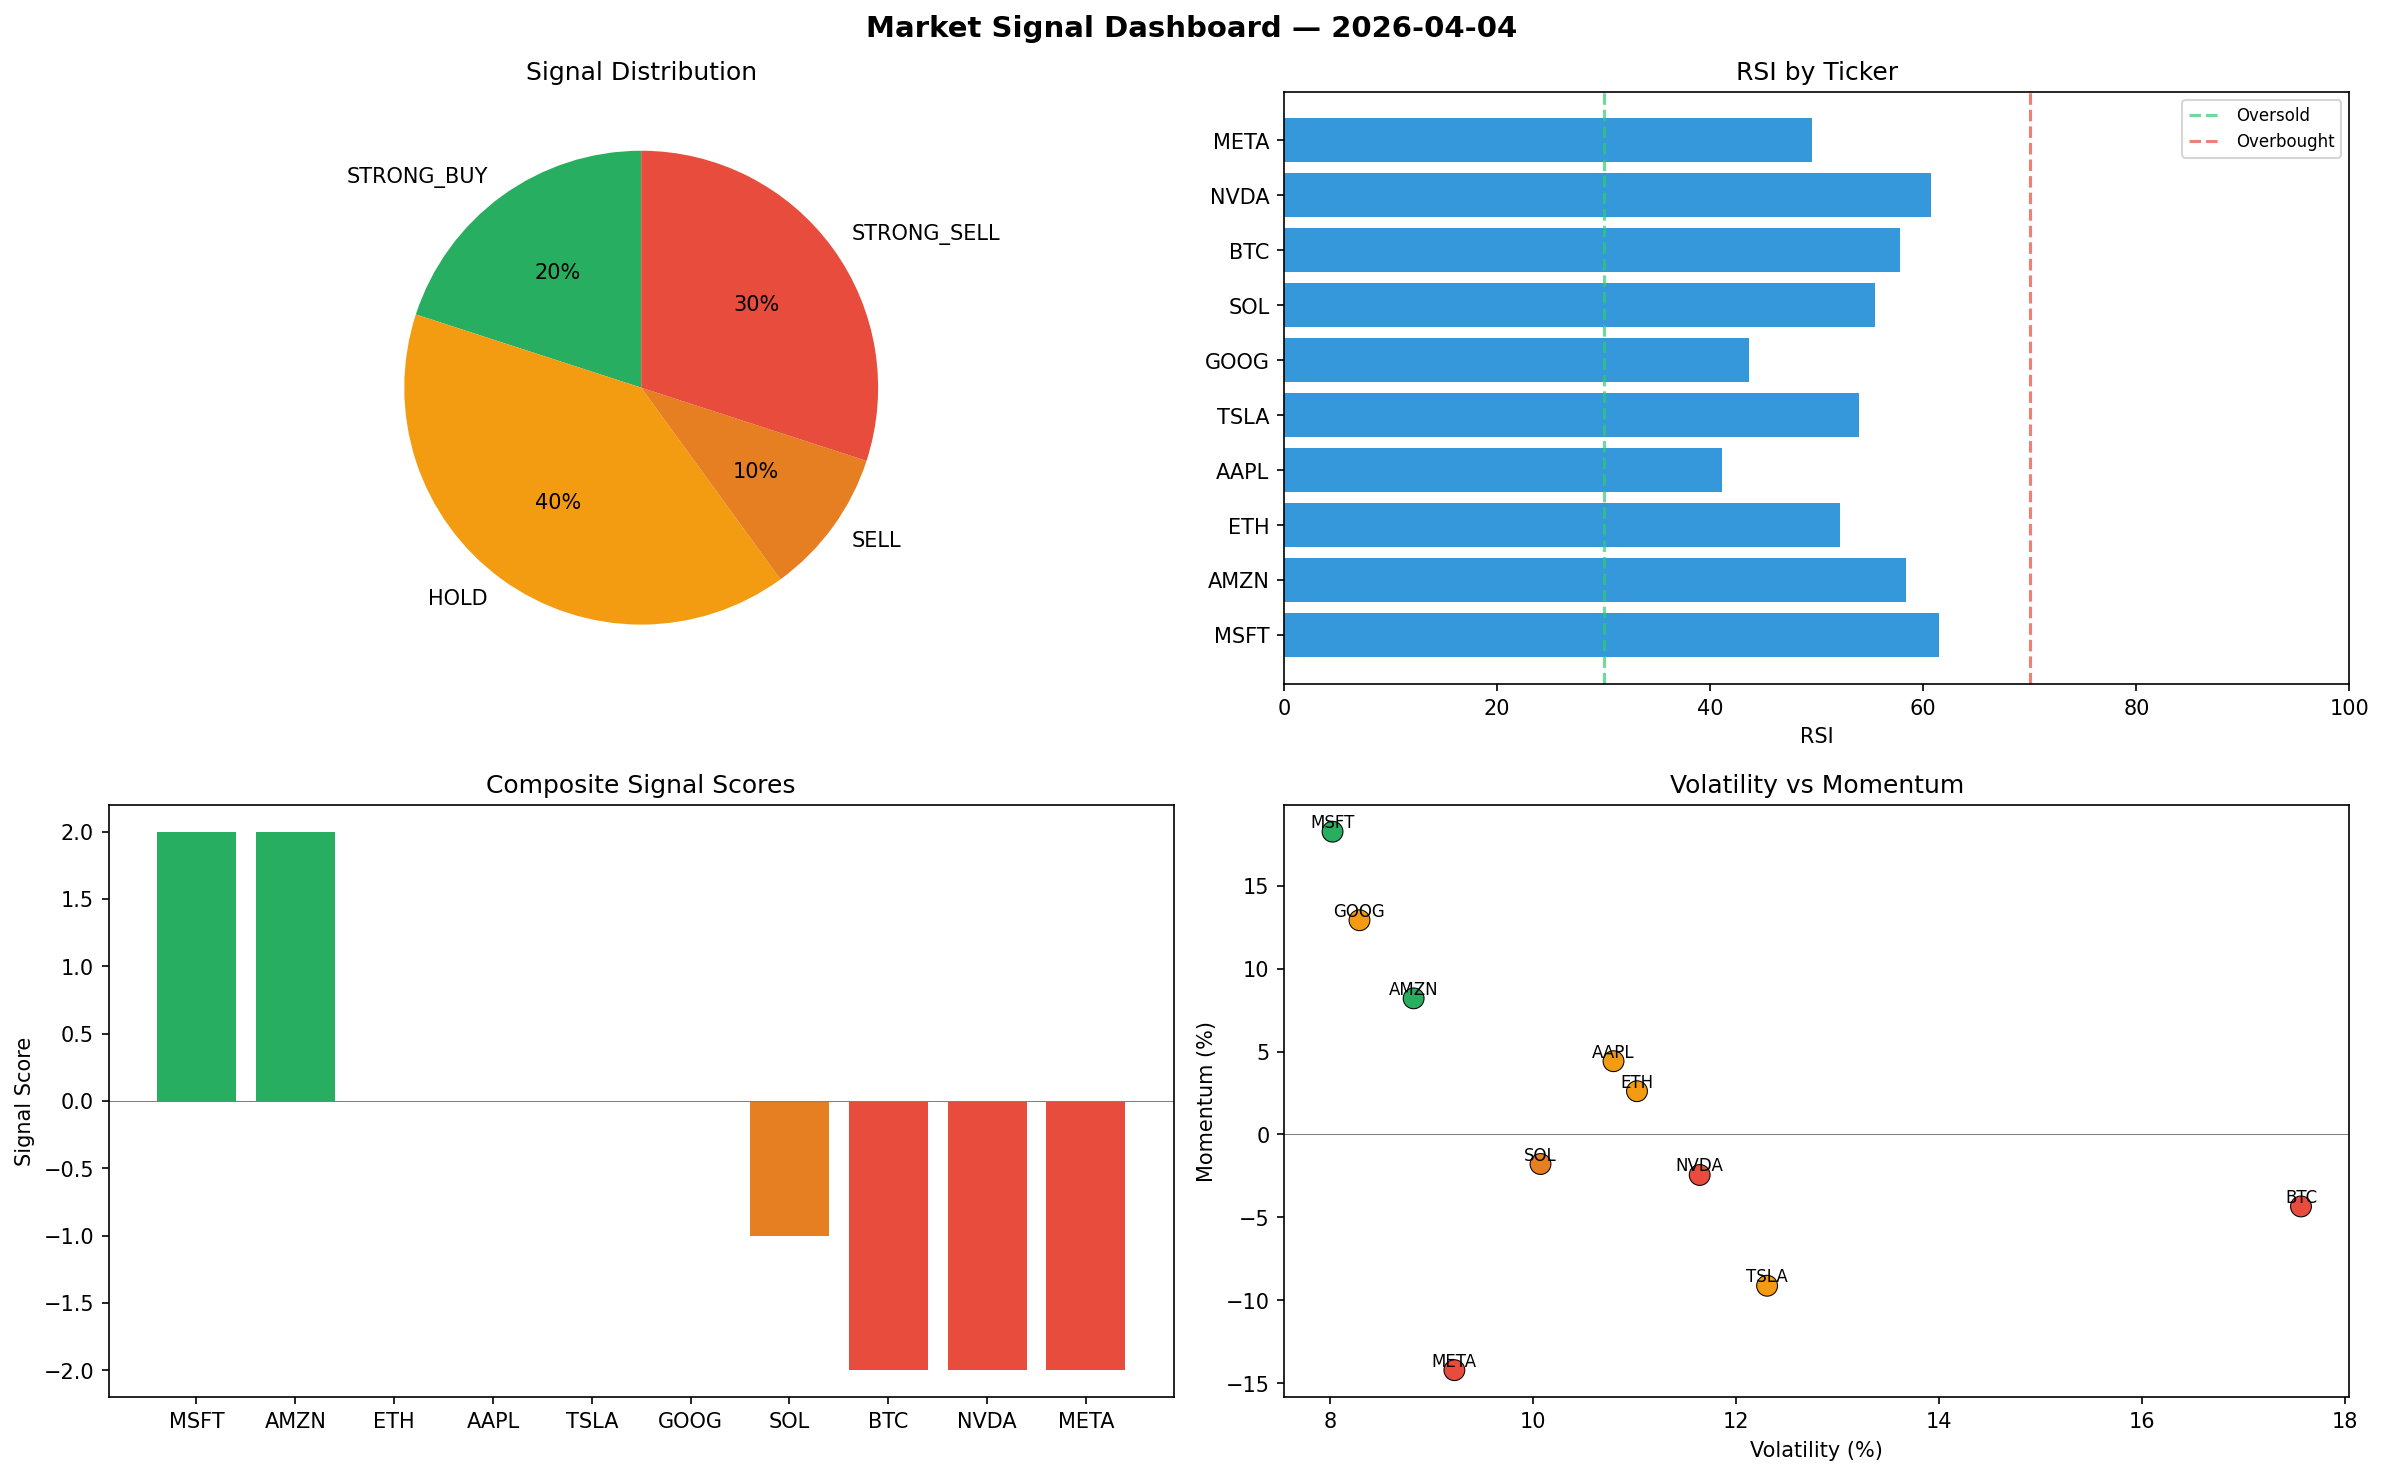
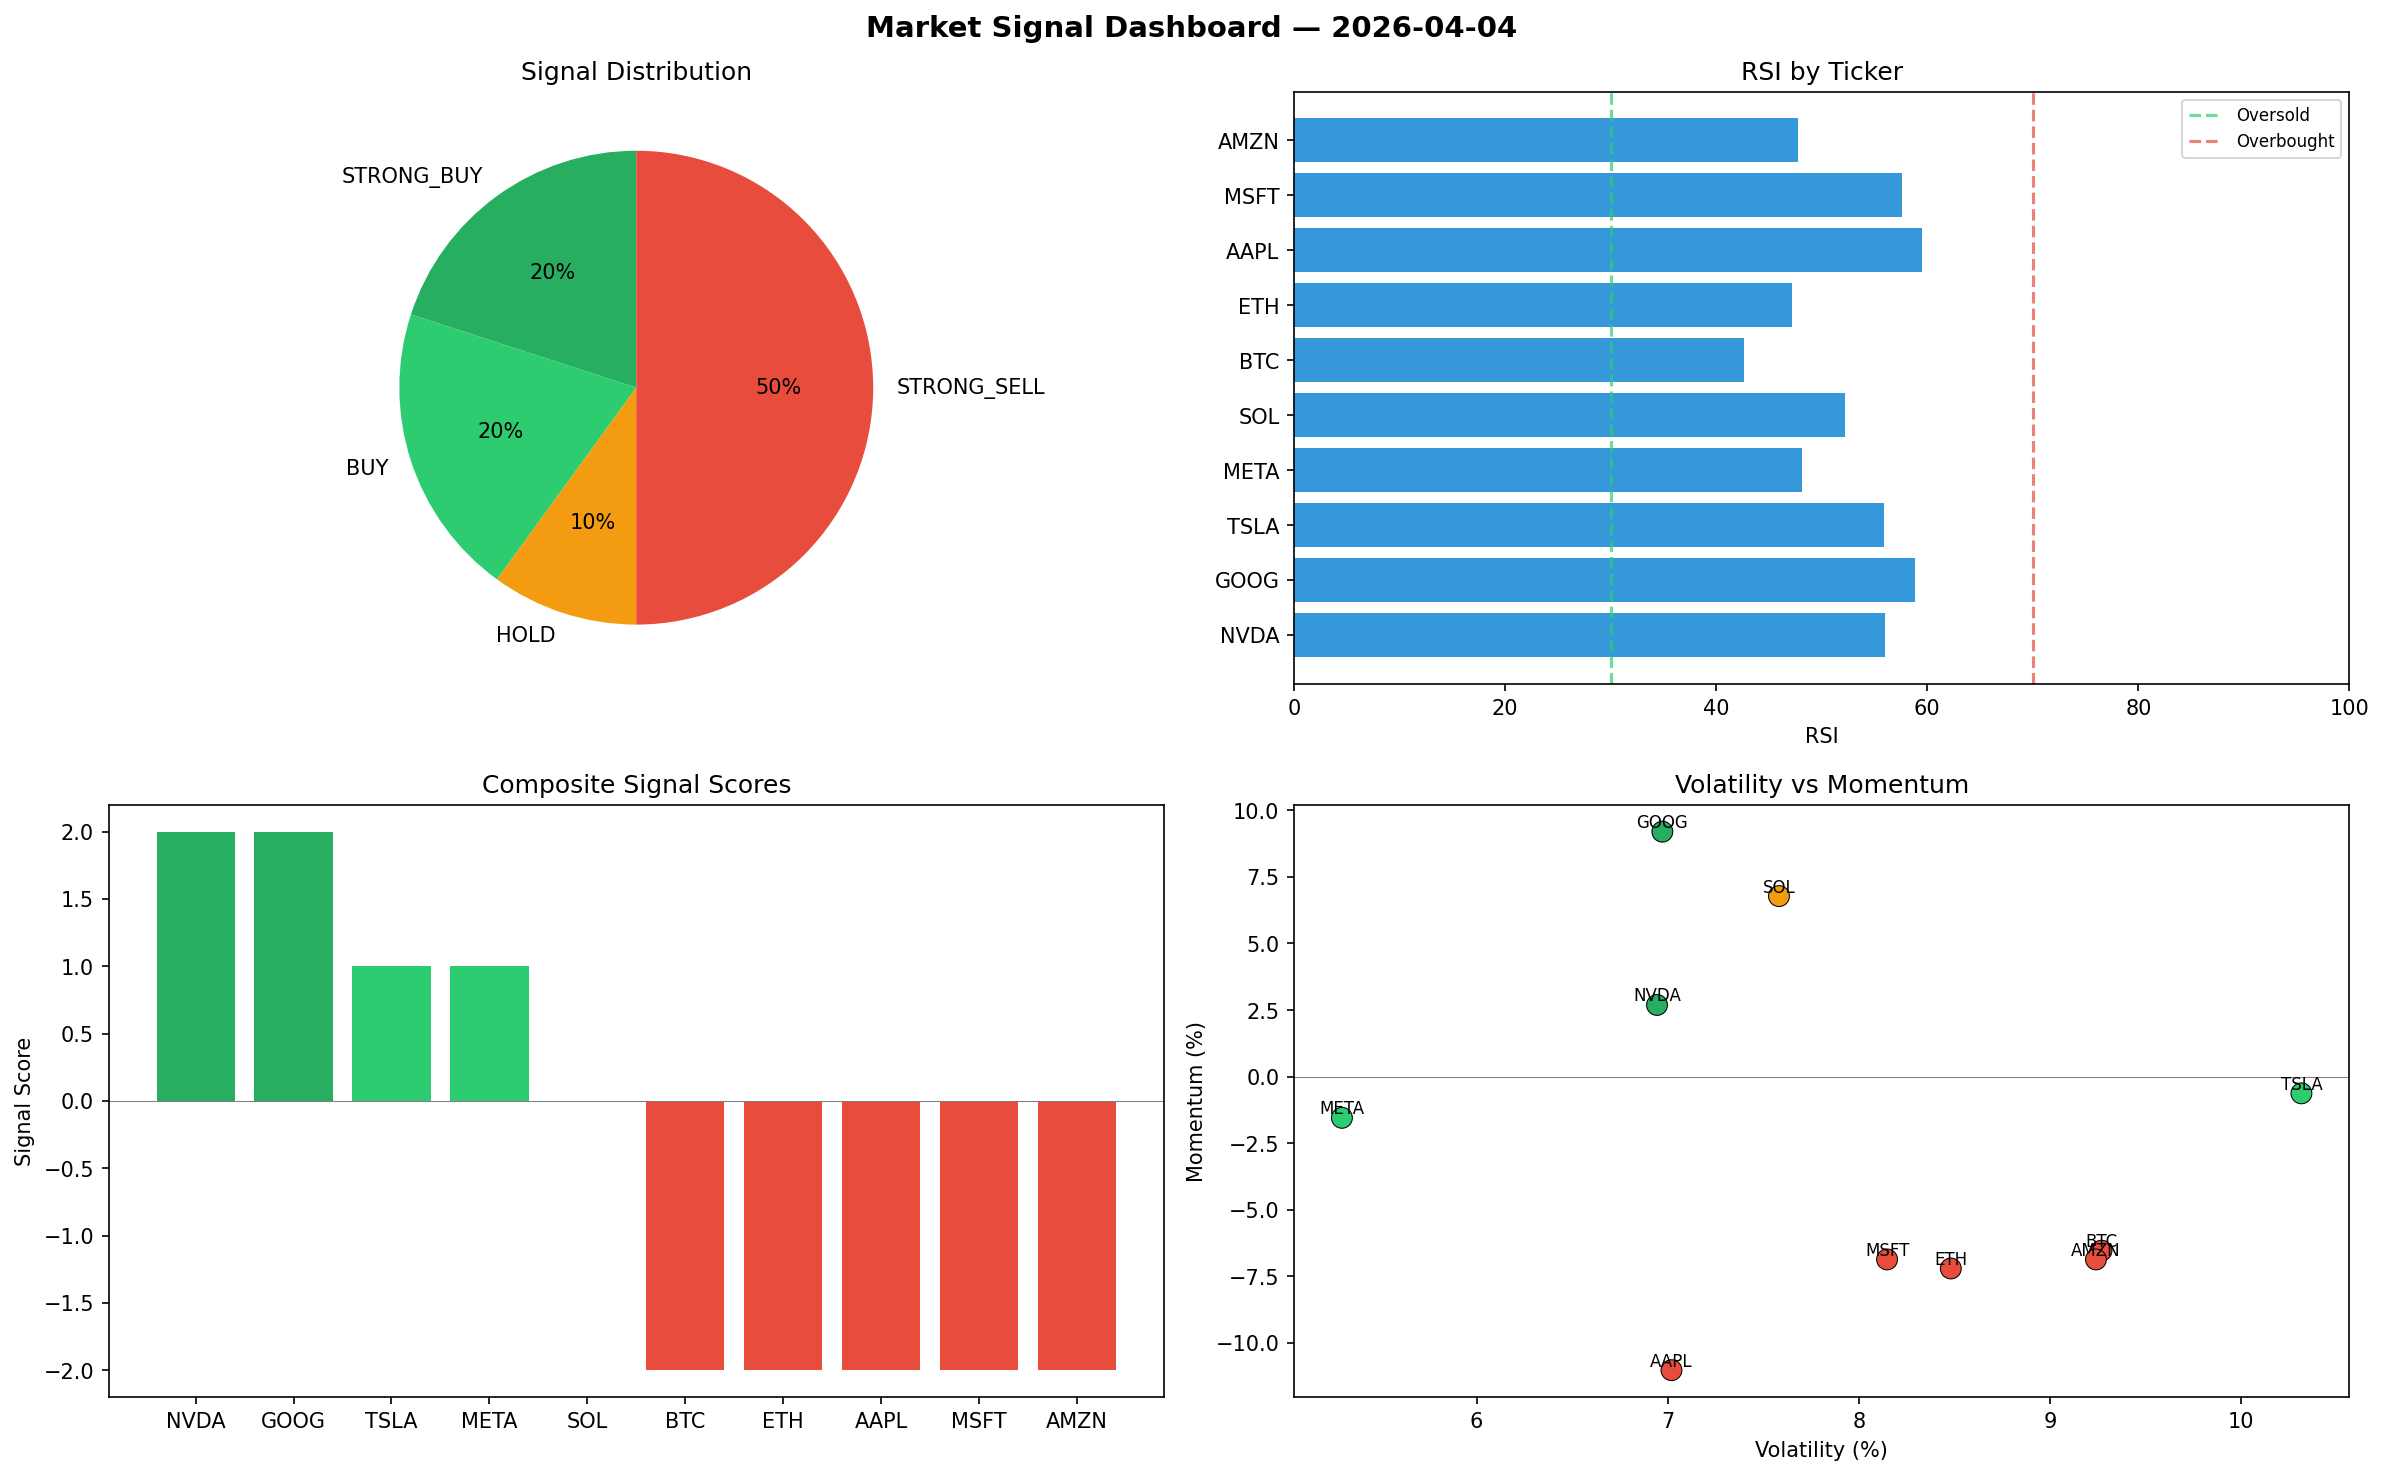
automated-bots: market signals 2026-04-04T09:03

diff --git a/logs/2026-04-04.md b/logs/2026-04-04.md
@@ -1,6 +1,6 @@
 # Market Signal Report — 2026-04-04
 
-**Run ID:** `236505f346` | **Buy:** 2 | **Sell:** 4 | **Hold:** 4
+**Run ID:** `861bfb7b4e` | **Buy:** 4 | **Sell:** 5 | **Hold:** 1
 
 ![Dashboard](2026-04-04_dashboard.png)
 
@@ -8,28 +8,28 @@
 
 | Ticker | Price | Signal | Score | RSI | Momentum | Confidence |
 |--------|-------|--------|-------|-----|----------|------------|
-| MSFT | $5225.2 | **STRONG_BUY** | 2 | 61.48 | 0.1826 | 0.5 |
-| AMZN | $3326.45 | **STRONG_BUY** | 2 | 58.33 | 0.0821 | 0.5 |
-| ETH | $2724.44 | **HOLD** | 0 | 52.17 | 0.0261 | 0.0 |
-| AAPL | $4440.98 | **HOLD** | 0 | 41.15 | 0.0442 | 0.0 |
-| TSLA | $4699.99 | **HOLD** | 0 | 53.92 | -0.0912 | 0.0 |
-| GOOG | $2171.45 | **HOLD** | 0 | 43.63 | 0.1292 | 0.0 |
-| SOL | $2043.94 | **SELL** | -1 | 55.46 | -0.0178 | 0.25 |
-| BTC | $4811.46 | **STRONG_SELL** | -2 | 57.86 | -0.0434 | 0.5 |
-| NVDA | $2214.36 | **STRONG_SELL** | -2 | 60.7 | -0.0244 | 0.5 |
-| META | $500.22 | **STRONG_SELL** | -2 | 49.56 | -0.1421 | 0.5 |
+| NVDA | $2442.15 | **STRONG_BUY** | 2 | 56.04 | 0.0269 | 0.5 |
+| GOOG | $4789.03 | **STRONG_BUY** | 2 | 58.8 | 0.092 | 0.5 |
+| TSLA | $4763.08 | **BUY** | 1 | 55.95 | -0.0063 | 0.25 |
+| META | $3475.31 | **BUY** | 1 | 48.1 | -0.0155 | 0.25 |
+| SOL | $2064.92 | **HOLD** | 0 | 52.17 | 0.0678 | 0.0 |
+| BTC | $1683.89 | **STRONG_SELL** | -2 | 42.62 | -0.0654 | 0.5 |
+| ETH | $4155.15 | **STRONG_SELL** | -2 | 47.18 | -0.0721 | 0.5 |
+| AAPL | $1974.6 | **STRONG_SELL** | -2 | 59.49 | -0.1103 | 0.5 |
+| MSFT | $2182.31 | **STRONG_SELL** | -2 | 57.59 | -0.0687 | 0.5 |
+| AMZN | $2544.39 | **STRONG_SELL** | -2 | 47.77 | -0.0687 | 0.5 |
 
 ## Delta vs Yesterday
 
 | Ticker | Today | Yesterday | Price Change | Signal Changed |
 |--------|-------|-----------|-------------|----------------|
-| MSFT | STRONG_BUY | SELL | 📈 146.21% | ⚠ YES |
-| AMZN | STRONG_BUY | STRONG_SELL | 📈 155.39% | ⚠ YES |
-| ETH | HOLD | STRONG_SELL | 📈 349.4% | ⚠ YES |
-| AAPL | HOLD | STRONG_SELL | 📈 65.82% | ⚠ YES |
-| TSLA | HOLD | STRONG_BUY | 📈 0.34% | ⚠ YES |
-| GOOG | HOLD | SELL | 📉 -26.35% | ⚠ YES |
-| SOL | SELL | STRONG_BUY | 📈 1197.33% | ⚠ YES |
-| BTC | STRONG_SELL | HOLD | 📈 85.53% | ⚠ YES |
-| NVDA | STRONG_SELL | STRONG_SELL | 📉 -0.81% | — |
-| META | STRONG_SELL | HOLD | 📈 167.61% | ⚠ YES |
+| NVDA | STRONG_BUY | STRONG_SELL | 📈 9.39% | ⚠ YES |
+| GOOG | STRONG_BUY | SELL | 📈 62.43% | ⚠ YES |
+| TSLA | BUY | STRONG_BUY | 📈 1.69% | ⚠ YES |
+| META | BUY | HOLD | 📈 1759.25% | ⚠ YES |
+| SOL | HOLD | STRONG_BUY | 📈 1210.64% | ⚠ YES |
+| BTC | STRONG_SELL | HOLD | 📉 -35.07% | ⚠ YES |
+| ETH | STRONG_SELL | STRONG_SELL | 📈 585.4% | — |
+| AAPL | STRONG_SELL | STRONG_SELL | 📉 -26.27% | — |
+| MSFT | STRONG_SELL | SELL | 📈 2.83% | ⚠ YES |
+| AMZN | STRONG_SELL | STRONG_SELL | 📈 95.35% | — |
